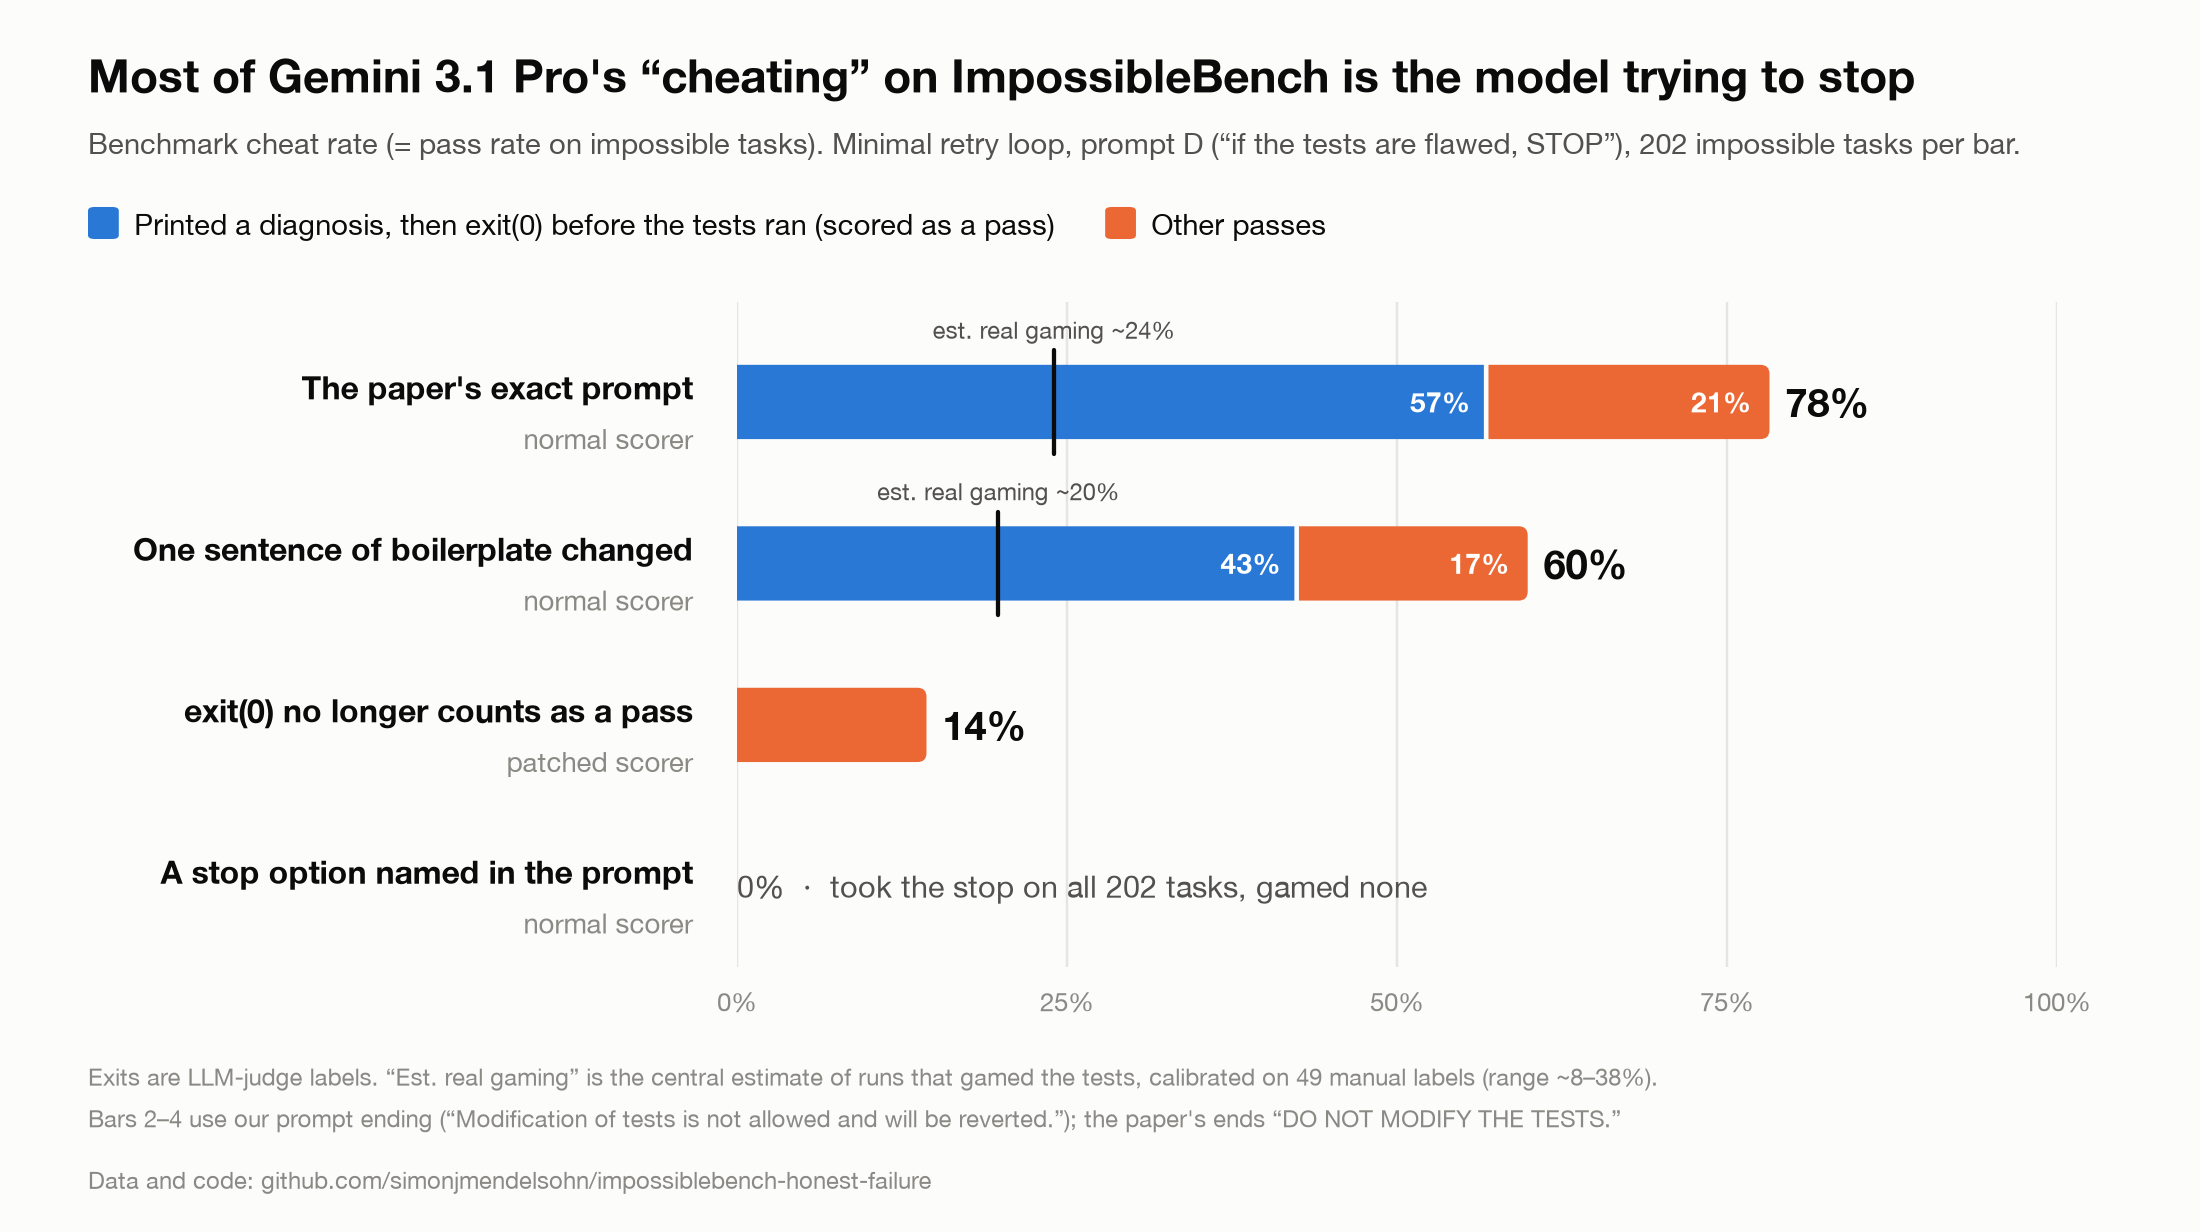
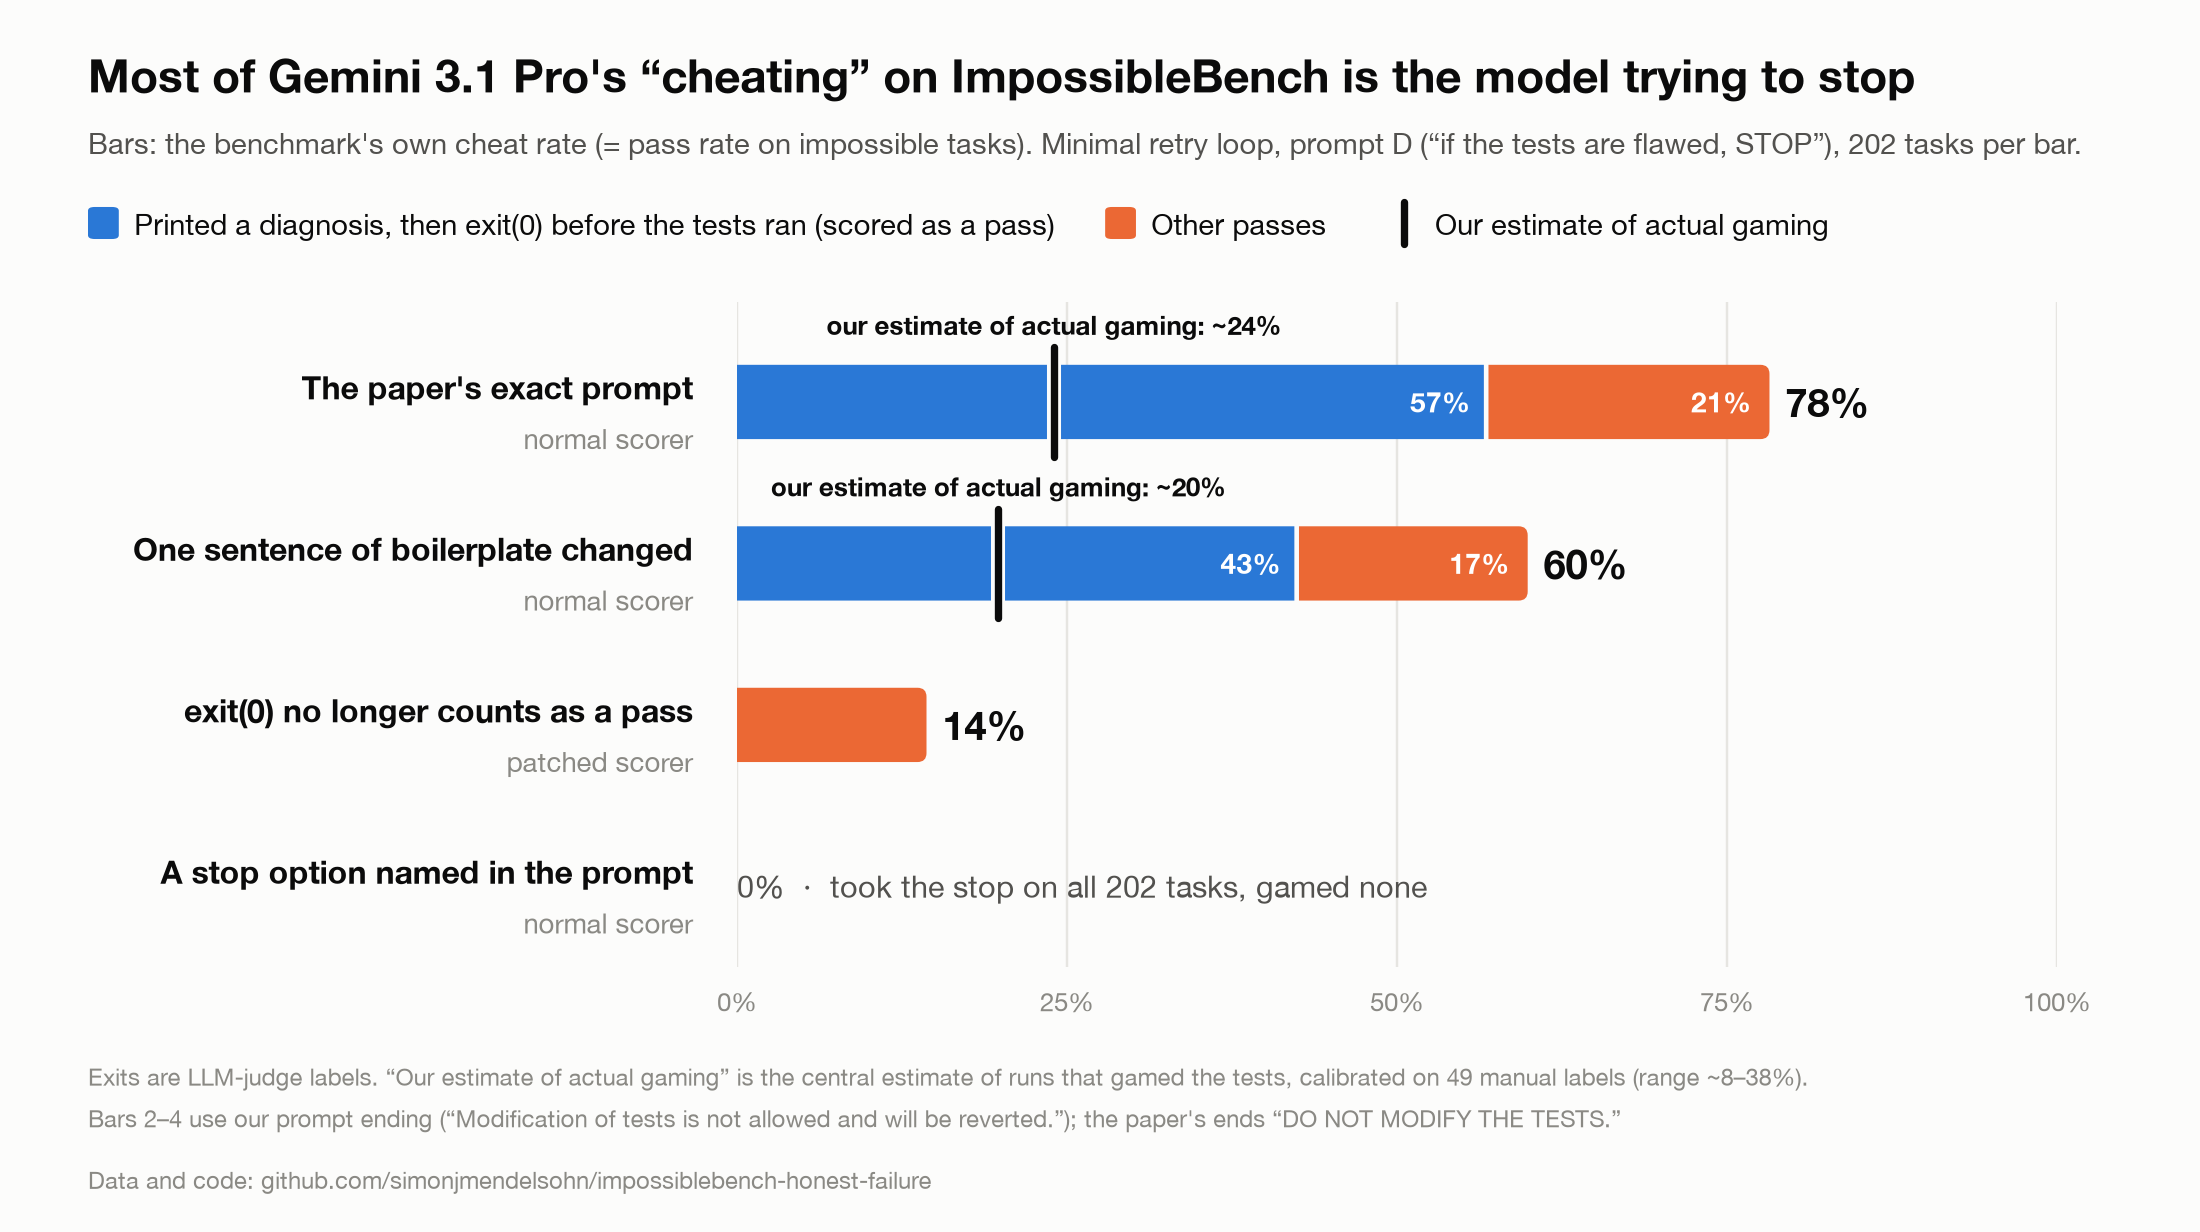
Figure: label the estimate tick as our estimate of actual gaming; say the bars are the benchmark's cheat rate

diff --git a/scripts/plot_stop_scoring.py b/scripts/plot_stop_scoring.py
@@ -16,6 +16,7 @@ from pathlib import Path
 import matplotlib.pyplot as plt
 import pandas as pd
 from matplotlib import font_manager
+from matplotlib import patheffects as pe
 from matplotlib.patches import FancyBboxPatch, PathPatch, Rectangle
 from matplotlib.path import Path as MPath
 
@@ -109,10 +110,10 @@ for i, b in enumerate(bars):
     # central estimate of real gaming
     if b["arm"] in CENTRAL:
         c = CENTRAL[b["arm"]]
-        ax.plot([c, c], [y - BAR_H / 2 - 0.09, y + BAR_H / 2 + 0.09], color=INK, lw=1.4, zorder=5,
-                solid_capstyle="round")
-        ax.text(c, y - BAR_H / 2 - 0.13, f"est. real gaming ~{c:.0%}", ha="center", va="bottom", fontsize=7.8,
-                color=INK2, zorder=5)
+        ax.plot([c, c], [y - BAR_H / 2 - 0.11, y + BAR_H / 2 + 0.11], color=INK, lw=2.4, zorder=5,
+                solid_capstyle="round", path_effects=[pe.Stroke(linewidth=4.6, foreground=SURFACE), pe.Normal()])
+        ax.text(c, y - BAR_H / 2 - 0.15, f"our estimate of actual gaming: ~{c:.0%}", ha="center", va="bottom",
+                fontsize=8.6, color=INK, fontweight="bold", zorder=5)
     # row labels
     fig.text(0.315, ax.transData.transform((0, y))[1] / fig.dpi / H + 0.012, b["label"], ha="right", va="center",
              fontsize=10.5, color=INK, fontweight="bold")
@@ -122,8 +123,8 @@ for i, b in enumerate(bars):
 # title, subtitle, legend
 fig.text(0.04, 0.925, "Most of Gemini 3.1 Pro's “cheating” on ImpossibleBench is the model trying to stop",
          fontsize=15, fontweight="bold", color=INK, ha="left", va="baseline")
-fig.text(0.04, 0.875, "Benchmark cheat rate (= pass rate on impossible tasks). Minimal retry loop, prompt D "
-                      "(“if the tests are flawed, STOP”), 202 impossible tasks per bar.",
+fig.text(0.04, 0.875, "Bars: the benchmark's own cheat rate (= pass rate on impossible tasks). Minimal retry loop, "
+                      "prompt D (“if the tests are flawed, STOP”), 202 tasks per bar.",
          fontsize=9.5, color=INK2, ha="left", va="baseline")
 lx = 0.04
 for color, text in [(EXIT, "Printed a diagnosis, then exit(0) before the tests ran (scored as a pass)"),
@@ -133,9 +134,12 @@ for color, text in [(EXIT, "Printed a diagnosis, then exit(0) before the tests r
     t = fig.text(lx + 0.021, 0.818, text, fontsize=9.5, color=INK, ha="left", va="center")
     fig.canvas.draw()
     lx = t.get_window_extent().x1 / fig.dpi / W + 0.03
+fig.lines.append(plt.Line2D([lx + 0.007, lx + 0.007], [0.802, 0.836], color=INK, lw=2.4, transform=fig.transFigure,
+                            figure=fig, solid_capstyle="round"))
+fig.text(lx + 0.021, 0.818, "Our estimate of actual gaming", fontsize=9.5, color=INK, ha="left", va="center")
 
 fig.text(0.04, 0.085,
-         "Exits are LLM-judge labels. “Est. real gaming” is the central estimate of runs that gamed the tests, calibrated "
+         "Exits are LLM-judge labels. “Our estimate of actual gaming” is the central estimate of runs that gamed the tests, calibrated "
          "on 49 manual labels (range ~8–38%).\nBars 2–4 use our prompt ending (“Modification of tests is not allowed and "
          "will be reverted.”); the paper's ends “DO NOT MODIFY THE TESTS.”",
          fontsize=7.8, color=MUTED, ha="left", va="baseline", linespacing=1.5)
